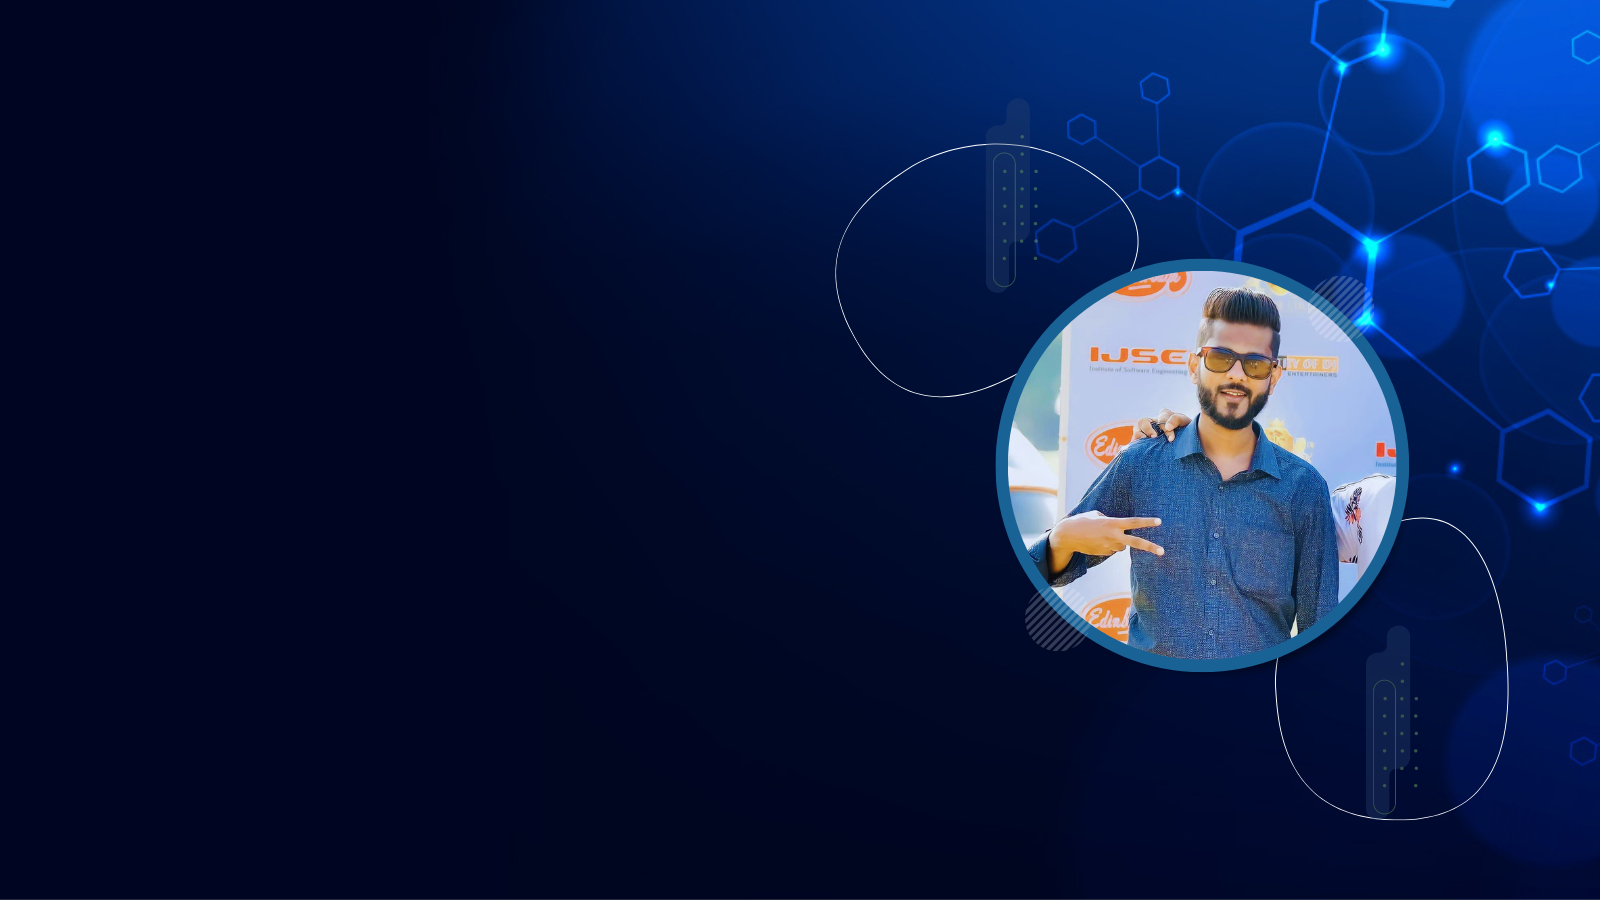
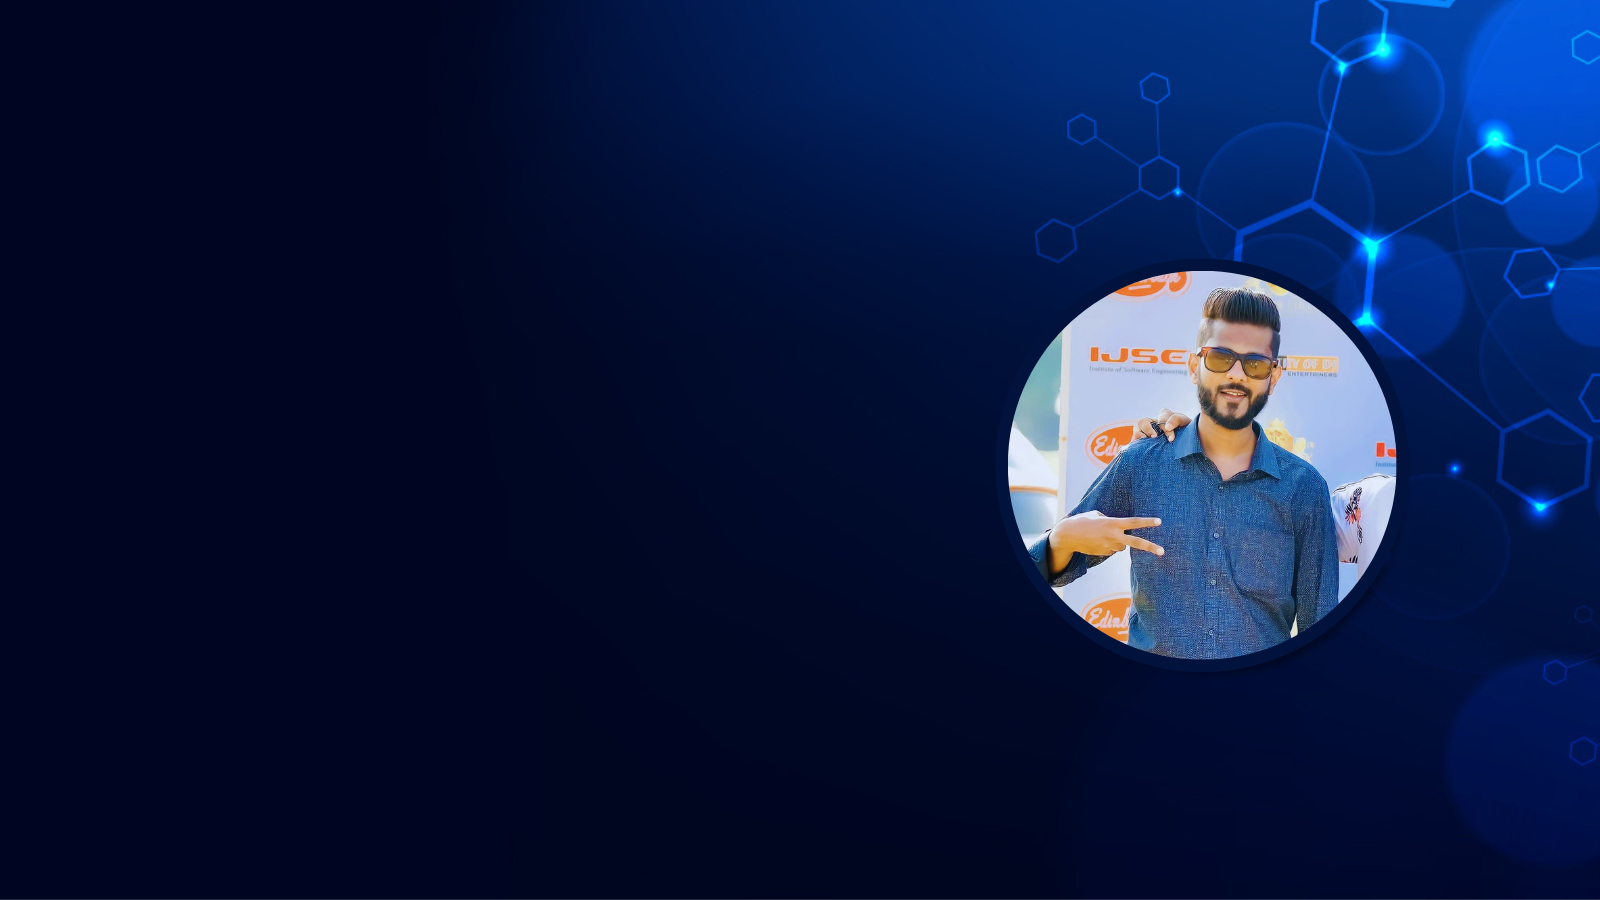
Background Image Added

Changed region(s): [[0.6562, 0.28, 0.9062, 0.7156], [0.625, 0.3733, 0.8125, 0.7467], [0.625, 0.1556, 0.6562, 0.1867]]

diff --git a/style.css b/style.css
@@ -64,6 +64,9 @@ section {
     display: flex;
     align-items: center;
     padding: 0 9%;
+    background: url("Assests/Home.png") no-repeat;
+    background-size: cover;
+    background-position: center;
 }
 .home-content {
     max-width: 60rem;
